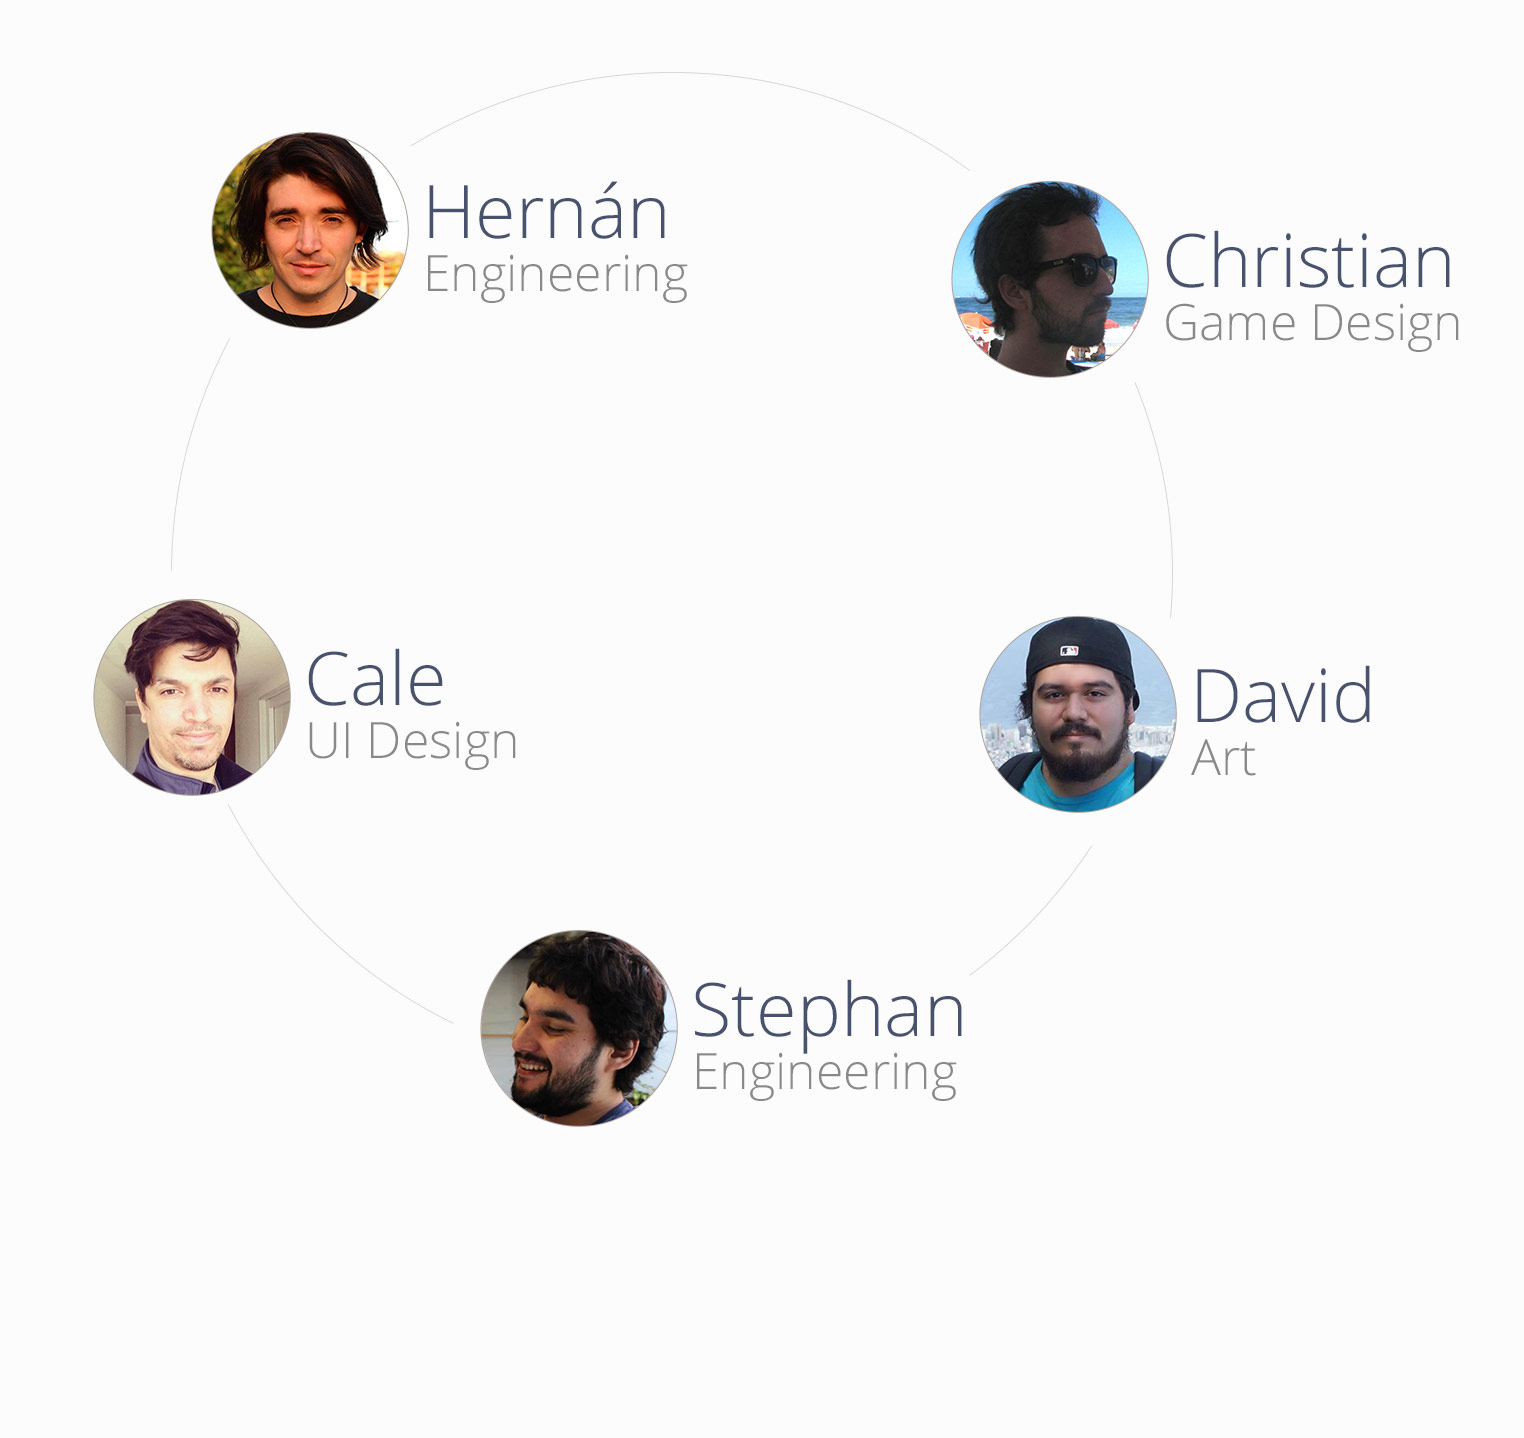
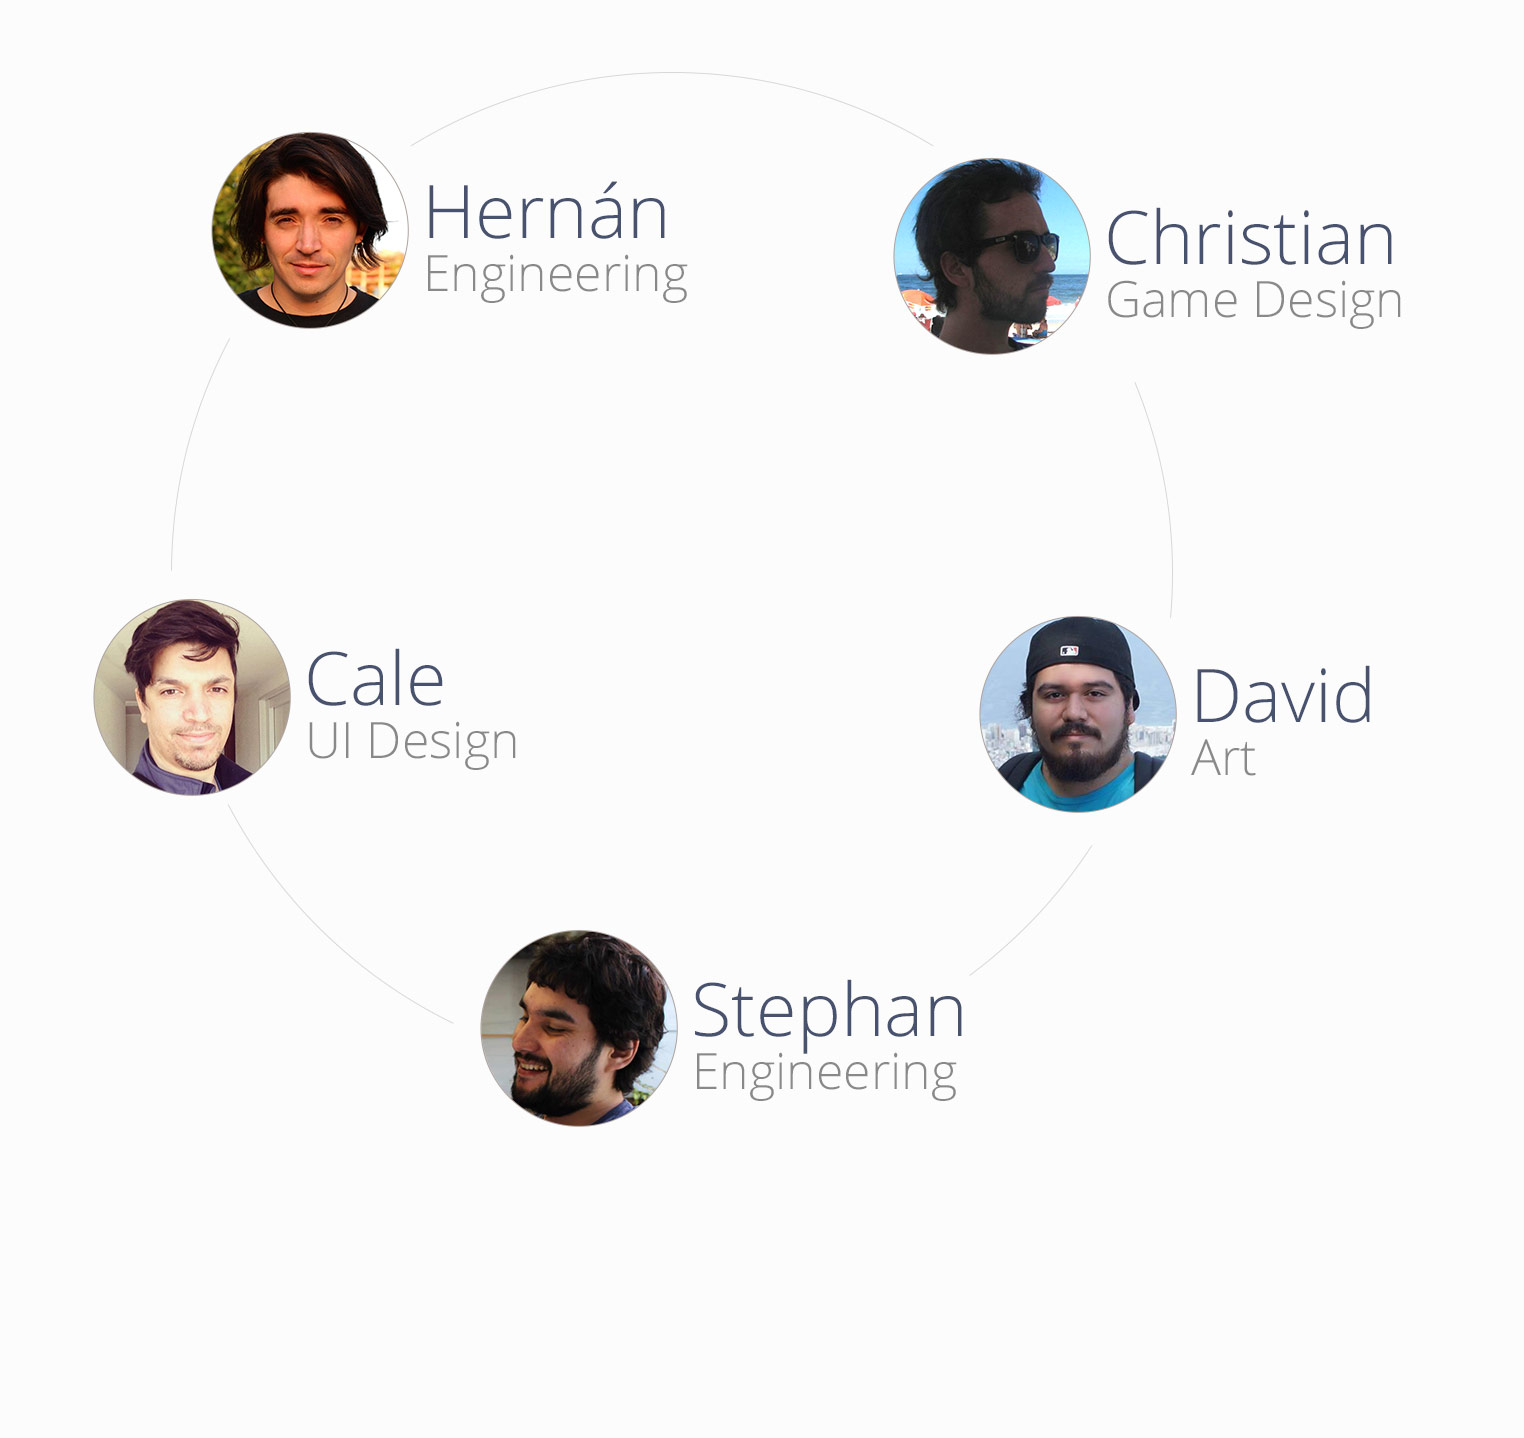
Bow3 Website CSS Updated.

Changed region(s): [[0.586, 0.0918, 0.956, 0.2754]]

diff --git a/SECRET/about/index.html b/SECRET/about/index.html
@@ -85,15 +85,14 @@ body {
         
 <h3>Who are we?</h3>
         
-<p> We want to fail fast, fix fast and data driven. That's how we define quality & focus. Don't bite more than you can chew. Making it easy to understand what went wrong, learn and iterate.
-
-Every feature adds weight and reduces flight time. Keep it lightweight to maneuver. </p>
+<p> We want to fail fast, fix fast and take data driven decisions. That's how we define quality & focus. Don't bite more than you can chew. Making it easy to understand what went wrong, learn and iterate. Every feature adds weight and reduces flight time. Keep it lightweight to maneuver.
+ </p>
  <section id="development">
     </section> 
     
-<p>We’ve been developing different titles for several years and the knowledge we share is our unique value proposition</p>
+<p>We’ve been developing different titles for several years and the knowledge we share is our unique value proposition.</p>
 <p><b>From scratch →  to final release → to liveOPS.</b></p>
-<p>We have been both leaders and team members in several titles. Understanding the business deeply as well as the development life cycle.Our Advantage. </p>
+<p>We have been both leaders and team members in several titles. Understanding the business deeply as well as the development life cycle.</p>
 
 <h4>Cale Lares</h4>
 <p>Lorem impsun</p>

diff --git a/SECRET/static/css/home_white.css b/SECRET/static/css/home_white.css
@@ -76,13 +76,11 @@ section#tercera{
 	text-align:left; 
 	margin-left: -7%;
 	background-color:#f3f3f3;
-	text-align:left; 
 
-	
 	}
-	 #tercera p { max-width: 730px; margin-left: -1,2%;}
+	 #tercera p { max-width: 630px;  padding: 0 30px 0 0; margin-left: -1,2%;}
 
-	 #tercera h2 { max-width: 650px; margin-left: -1,2%;
+	 #tercera h2 { max-width: 220px;
 	}
 
 section#cuarta { 
@@ -187,7 +185,7 @@ section#tercera{
 	}
 	 #tercera p { max-width: 650px; margin-left: -1,2%;
 	}
-	 #tercera h2 { max-width: 650px; margin-left: -1,2%;
+	 #tercera h2 { max-width: 550px; margin-left: -4,2%;
 	}
 
 
@@ -309,11 +307,12 @@ section#tercera{
     section#tercera { 
 	background-size: 990px auto; 
 	height: 420px;
-	background-position: 29% 35%;
+	background-position: 49% 35%;
 	text-align:left;
 	 }
 	
-	
+		 #tercera p { max-width: 210px;  padding: -25px 0 0 0; margin-left: -1,2%;}
+
 
     section#cuarta { 
 	background: url('../img/home/cuarta@2x.jpg') bottom 12% center no-repeat;

diff --git a/SECRET/static/css/base.css b/SECRET/static/css/base.css
@@ -28,7 +28,7 @@ h2 {
     color: #f4f4f4;
     font-size: 2.9em;
     font-weight: 600;
-    margin: 40px 0;
+    margin: 40px;
     padding: 0;
 	font-family: 'Open Sans', sans-serif;
 }
@@ -66,7 +66,7 @@ h6 {
 	font-size: 39px;
 	font-weight: 300;
 	color: #48526e;
-	margin: 20px 820px 0px 0px;
+	margin: -32px 0px 0px 0px;
 	line-height: normal;	
 	font-family: 'Open Sans', sans-serif;
 	
@@ -302,6 +302,10 @@ h5 {
 h6 {
 
 	font-size: 35px;
+		margin: -16px -20px -10px 0px;
+
+	
+	
 	
 }
 p {
